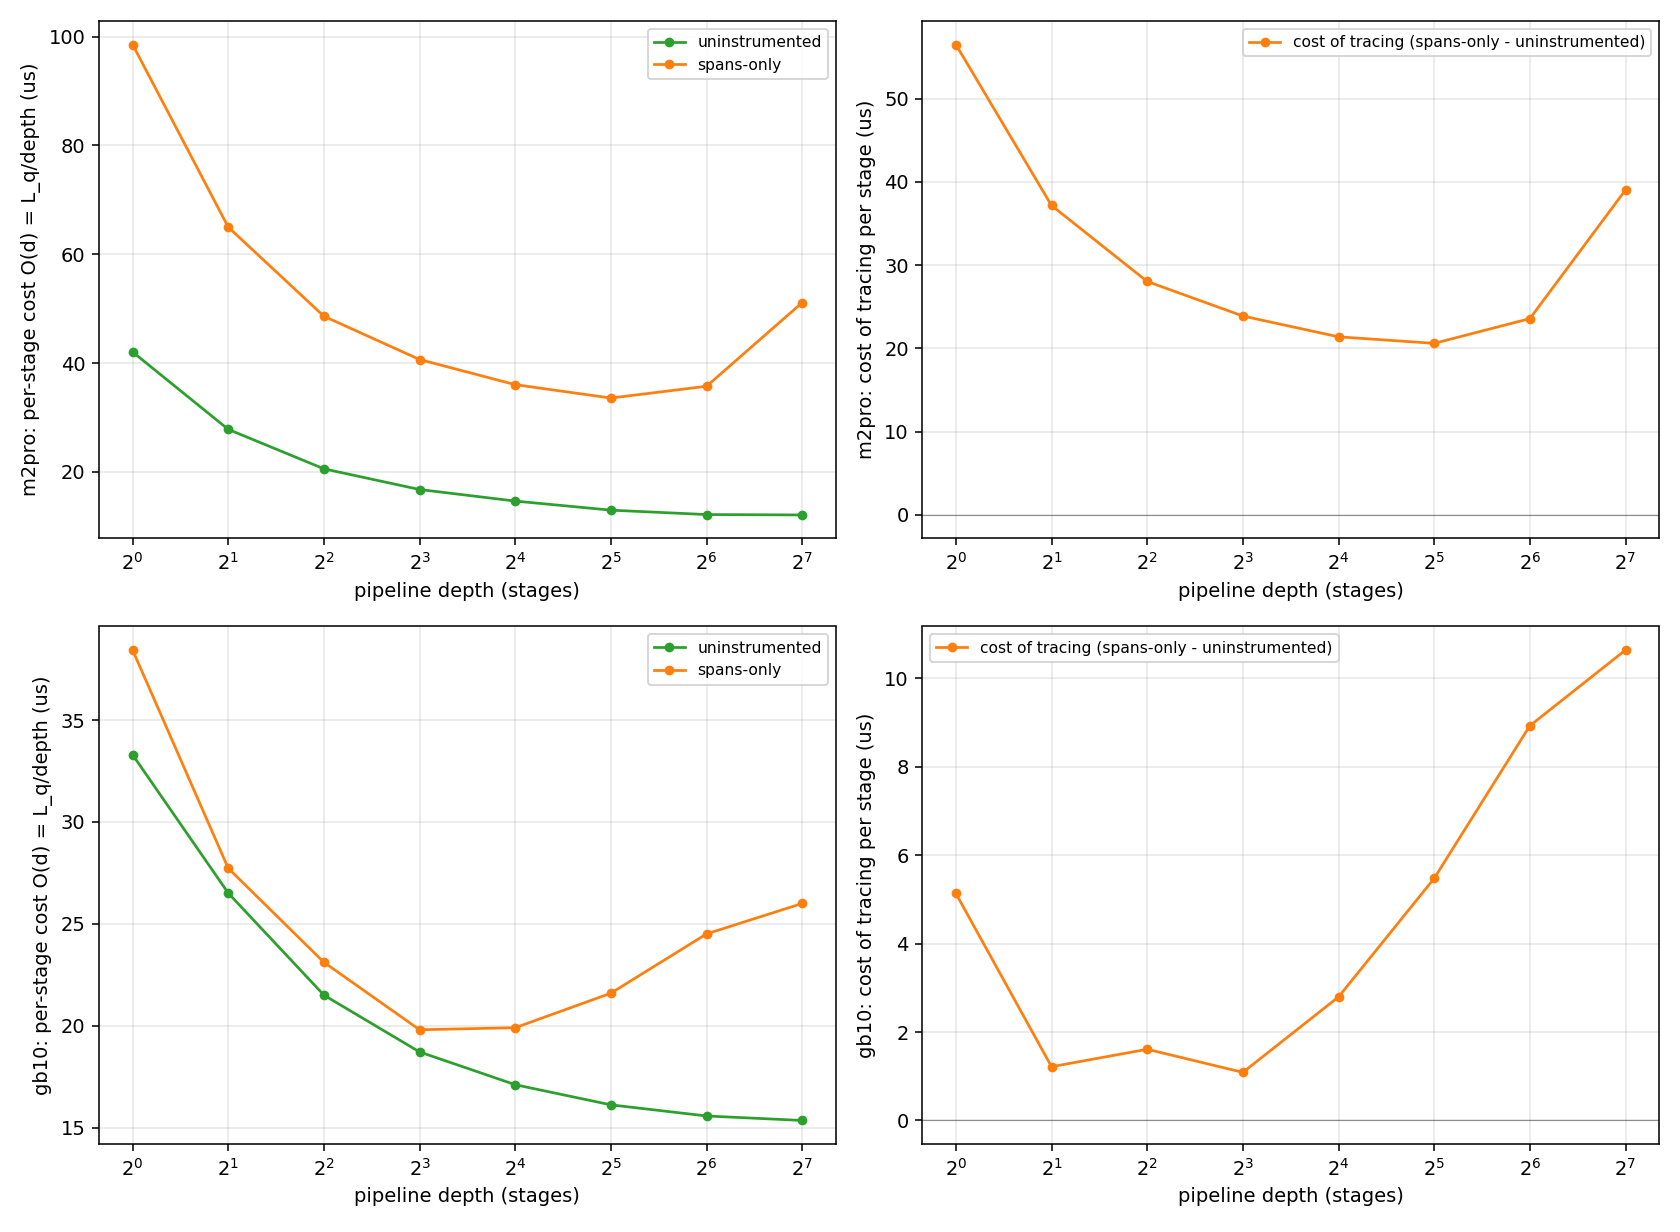
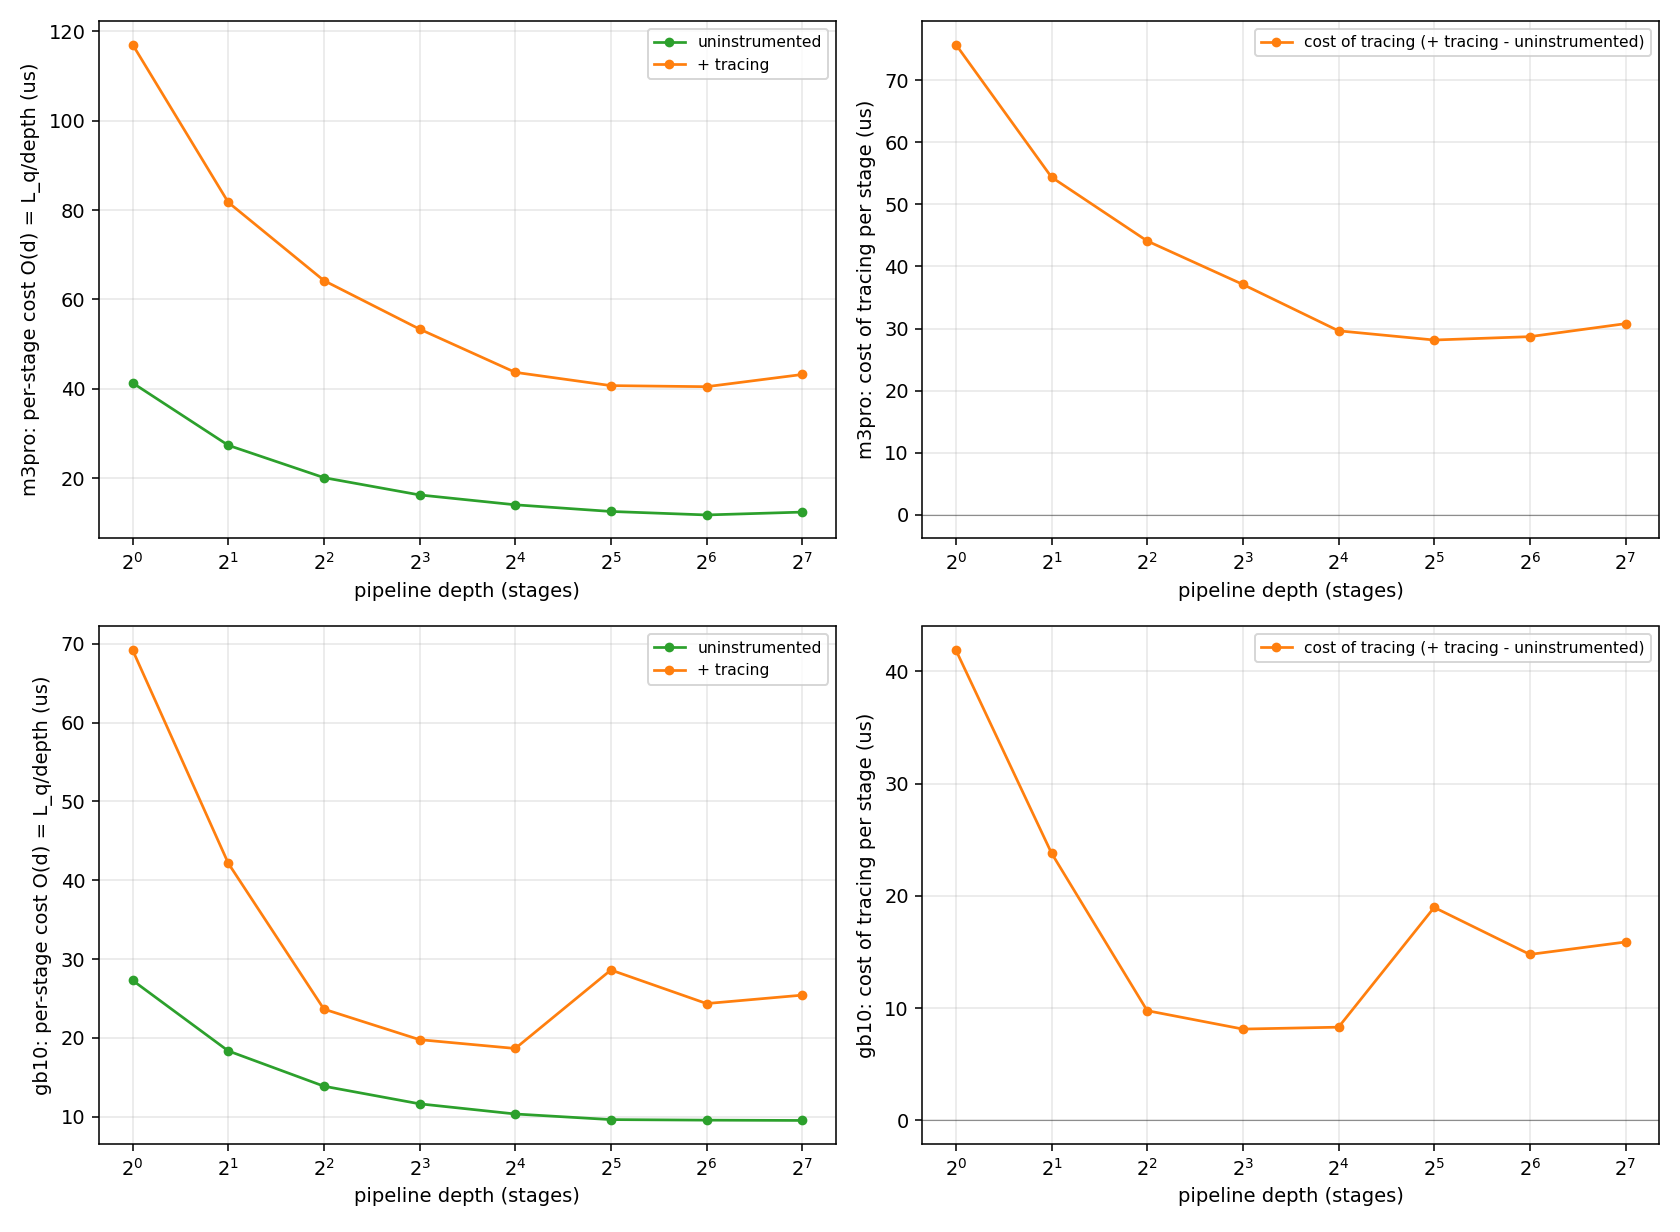
E1 figures: use the display label, not the internal token
The legends read "traced", the internal name for the configuration. Every
table and every piece of prose calls it "+ tracing", and ARM_LABEL already
held that mapping -- the two plot calls just did not use it. Regenerated
all three figures from the current m3pro/gb10 data.

diff --git a/evaluation/overheads/framework_overhead/analyze_e1.py b/evaluation/overheads/framework_overhead/analyze_e1.py
@@ -672,7 +672,8 @@ def make_instrument_figure(per_device, fig_dir):
         for arm, color in ARM_STYLE.items():
             if curves[arm]:
                 xs, ys = zip(*curves[arm])
-                ax.plot(xs, ys, "o-", color=color, ms=4, lw=1.4, label=arm)
+                ax.plot(xs, ys, "o-", color=color, ms=4, lw=1.4,
+                        label=ARM_LABEL.get(arm, arm))
         ax.set_xscale("log", base=2)
         ax.set_xlabel("pipeline depth (stages)")
         ax.set_ylabel(f"{dev}: per-stage cost O(d) = L_q/depth (us)")
@@ -719,7 +720,8 @@ def make_figures(per_device, fig_dir):
                     depths.append(d); meds.append(s["median"])
             if not depths:
                 continue
-            ax.plot(depths, meds, "o-", color=color, ms=4, lw=1.3, label=arm)
+            ax.plot(depths, meds, "o-", color=color, ms=4, lw=1.3,
+                    label=ARM_LABEL.get(arm, arm))
             lq_ns = [m * NS_PER_MS for m in meds]
             slope, icpt = ols_slope(depths, lq_ns)
             r2 = ols_r2(depths, lq_ns, slope, icpt)
